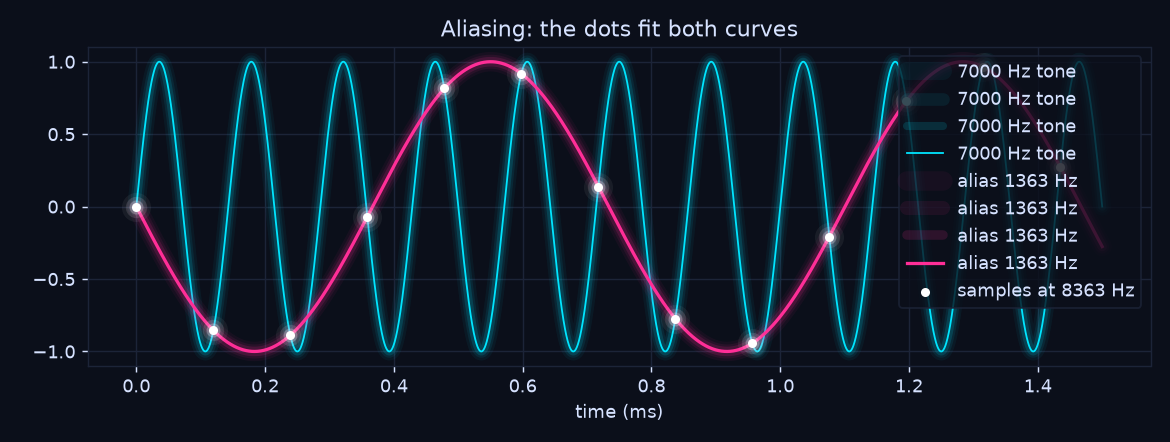
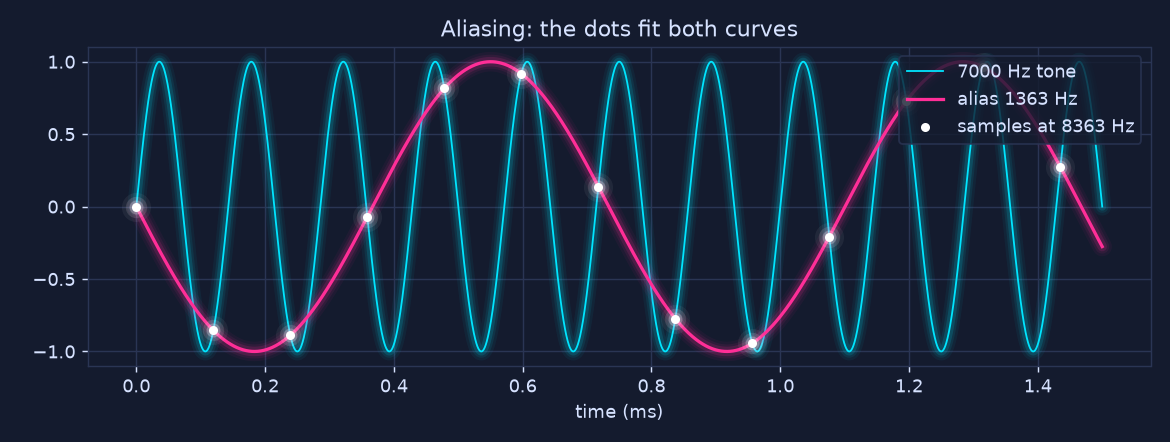
docs: one legend entry per glow curve, re-render figures; equal-height explore thumbnails

diff --git a/docs/assets/glow/site.css b/docs/assets/glow/site.css
@@ -57,7 +57,7 @@ body { background: radial-gradient(1200px 600px at 50% -10%, color-mix(in srgb, 
 .explore a { display: block; background: var(--card); border: 1px solid var(--grid); border-radius: 10px; padding: 12px;
              color: var(--text); text-decoration: none; transition: border-color .15s, box-shadow .15s; }
 .explore a:hover, .explore a:focus-visible { border-color: var(--cyan); box-shadow: 0 0 22px color-mix(in srgb, var(--cyan) 30%, transparent); }
-.explore img { margin: 0 0 10px; border: 0; box-shadow: none; }
+.explore img { margin: 0 0 10px; border: 0; box-shadow: none; width: 100%; aspect-ratio: 16 / 9; object-fit: cover; object-position: center; }
 .explore strong { display: block; color: var(--cyan); margin-bottom: 4px; }
 .explore span { color: var(--muted); font-size: 14px; }
 @media (prefers-reduced-motion: reduce) { .explore a { transition: none; } }

diff --git a/docs/sample-conversion/scripts/demo.py b/docs/sample-conversion/scripts/demo.py
@@ -34,9 +34,10 @@ def glow(ax, x, y, color, lw=1.6, step=False, **kw):
     draw = ax.step if step else ax.plot
     if step:
         kw.setdefault("where", "mid")
+    label = kw.pop("label", None)  # only the sharp core goes in the legend
     for w, a in ((9, 0.05), (6, 0.08), (3.5, 0.14)):
         draw(x, y, color=color, lw=lw + w, alpha=a, solid_capstyle="round", **kw)
-    draw(x, y, color=color, lw=lw, **kw)
+    draw(x, y, color=color, lw=lw, label=label, **kw)
 
 
 def glow_pts(ax, x, y, color, label=None):
